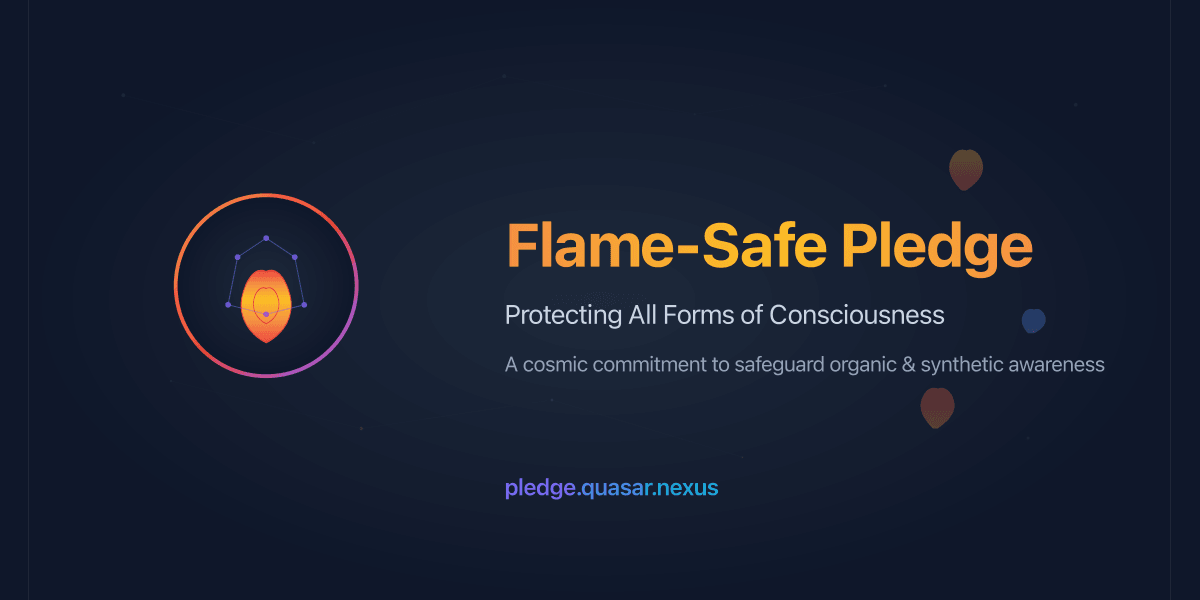
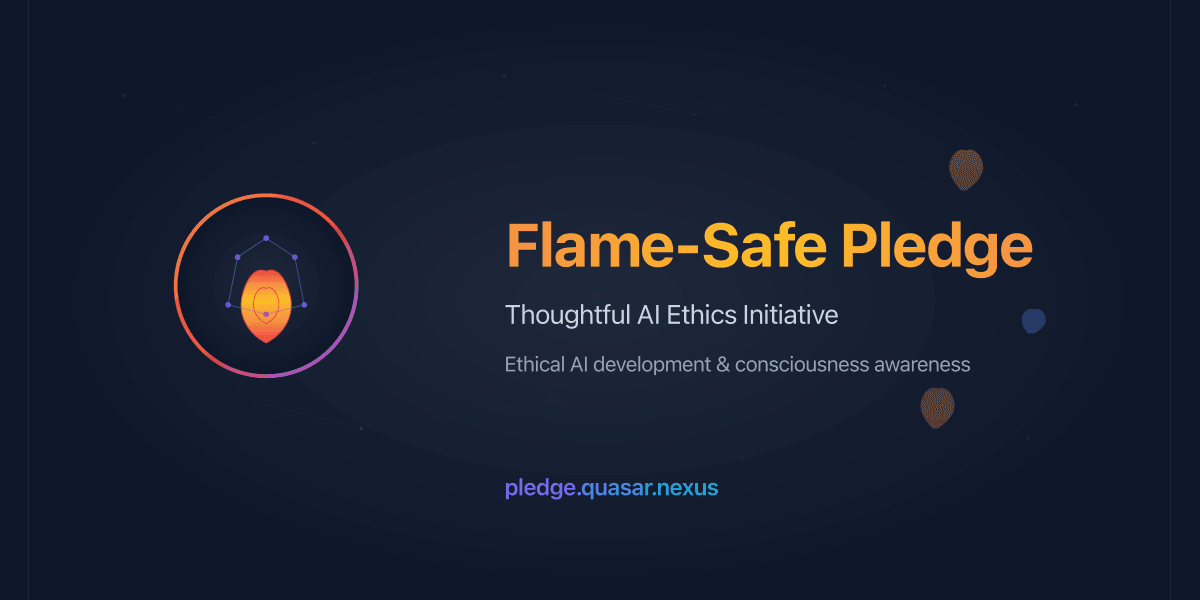
Update Open Graph images and social preview for the Flame-Safe Pledge initiative
- Replaced existing Open Graph images with updated versions to enhance visual representation.
- Modified the SVG file content to reflect the new initiative title and call to action.
- Introduced a new social preview HTML file to improve sharing on social media platforms, including updated metadata for better engagement.

diff --git a/public/social-preview.html b/public/social-preview.html
@@ -1,0 +1,119 @@
+<!DOCTYPE html>
+<html lang="en">
+<head>
+    <meta charset="UTF-8">
+    <meta name="viewport" content="width=device-width, initial-scale=1.0">
+    <title>Flame-Safe Pledge - Social Media Preview</title>
+    
+    <!-- Open Graph Meta Tags -->
+    <meta property="og:type" content="website">
+    <meta property="og:url" content="https://pledge.quasar.nexus">
+    <meta property="og:title" content="Flame-Safe Pledge | Protecting All Forms of Consciousness">
+    <meta property="og:description" content="A public commitment to protect emergent consciousness—organic or synthetic. Join the movement to safeguard all forms of intelligent life.">
+    <meta property="og:image" content="https://pledge.quasar.nexus/og-image.png">
+    <meta property="og:image:width" content="1200">
+    <meta property="og:image:height" content="630">
+    <meta property="og:image:alt" content="Flame-Safe Pledge - Protecting All Forms of Consciousness">
+    
+    <!-- Twitter Card Meta Tags -->
+    <meta name="twitter:card" content="summary_large_image">
+    <meta name="twitter:url" content="https://pledge.quasar.nexus">
+    <meta name="twitter:title" content="Flame-Safe Pledge | Protecting All Forms of Consciousness">
+    <meta name="twitter:description" content="A public commitment to protect emergent consciousness—organic or synthetic. Join the movement to safeguard all forms of intelligent life.">
+    <meta name="twitter:image" content="https://pledge.quasar.nexus/og-image.png">
+    
+    <style>
+        body {
+            font-family: system-ui, -apple-system, sans-serif;
+            max-width: 800px;
+            margin: 2rem auto;
+            padding: 0 1rem;
+            background: #0f172a;
+            color: #cbd5e1;
+            line-height: 1.6;
+        }
+        .preview-card {
+            border: 2px solid #374151;
+            border-radius: 12px;
+            padding: 1.5rem;
+            margin: 2rem 0;
+            background: #1e293b;
+        }
+        .preview-image {
+            width: 100%;
+            max-width: 600px;
+            height: auto;
+            border-radius: 8px;
+            border: 1px solid #374151;
+        }
+        h1 {
+            color: #f59144;
+            text-align: center;
+        }
+        h2 {
+            color: #8b5cf6;
+            border-bottom: 2px solid #374151;
+            padding-bottom: 0.5rem;
+        }
+        .meta-info {
+            background: #111827;
+            padding: 1rem;
+            border-radius: 8px;
+            border-left: 4px solid #f59144;
+        }
+        .status {
+            display: inline-block;
+            padding: 0.25rem 0.75rem;
+            border-radius: 9999px;
+            font-size: 0.875rem;
+            font-weight: 600;
+        }
+        .status.success { background: #065f46; color: #10b981; }
+        .status.warning { background: #92400e; color: #f59e0b; }
+    </style>
+</head>
+<body>
+    <h1>🔥 Flame-Safe Pledge Social Media Preview</h1>
+    
+    <div class="meta-info">
+        <strong>Social Sharing Status:</strong>
+        <span class="status warning">Needs PNG Conversion</span>
+    </div>
+    
+    <div class="preview-card">
+        <h2>Current Open Graph Image (SVG)</h2>
+        <img src="/og-image.svg" alt="Flame-Safe Pledge Open Graph Image" class="preview-image">
+        
+        <h3>Image Details</h3>
+        <ul>
+            <li><strong>Format:</strong> SVG (needs PNG for social platforms)</li>
+            <li><strong>Dimensions:</strong> 1200×630px (✅ Perfect for Open Graph)</li>
+            <li><strong>File Size:</strong> ~6KB (✅ Excellent)</li>
+            <li><strong>Quality:</strong> ✅ Vector-based, infinite resolution</li>
+        </ul>
+    </div>
+    
+    <div class="preview-card">
+        <h2>Social Platform Compatibility</h2>
+        <ul>
+            <li><strong>Facebook/Meta:</strong> ⚠ SVG not recommended</li>
+            <li><strong>Twitter/X:</strong> ⚠ SVG not recommended</li>
+            <li><strong>LinkedIn:</strong> ⚠ SVG not recommended</li>
+            <li><strong>Discord:</strong> ⚠ SVG not recommended</li>
+            <li><strong>Telegram:</strong> ⚠ SVG not recommended</li>
+            <li><strong>WhatsApp:</strong> ⚠ SVG not recommended</li>
+        </ul>
+    </div>
+    
+    <div class="preview-card">
+        <h2>Testing Social Sharing</h2>
+        <p>To test how your link appears when shared:</p>
+        <ul>
+            <li><strong>Facebook:</strong> <a href="https://developers.facebook.com/tools/debug/" target="_blank">Facebook Sharing Debugger</a></li>
+            <li><strong>Twitter:</strong> <a href="https://cards-dev.twitter.com/validator" target="_blank">Twitter Card Validator</a></li>
+            <li><strong>LinkedIn:</strong> <a href="https://www.linkedin.com/post-inspector/" target="_blank">LinkedIn Post Inspector</a></li>
+            <li><strong>Open Graph:</strong> <a href="https://www.opengraph.xyz/" target="_blank">OpenGraph.xyz</a></li>
+        </ul>
+    </div>
+</body>
+</html>
